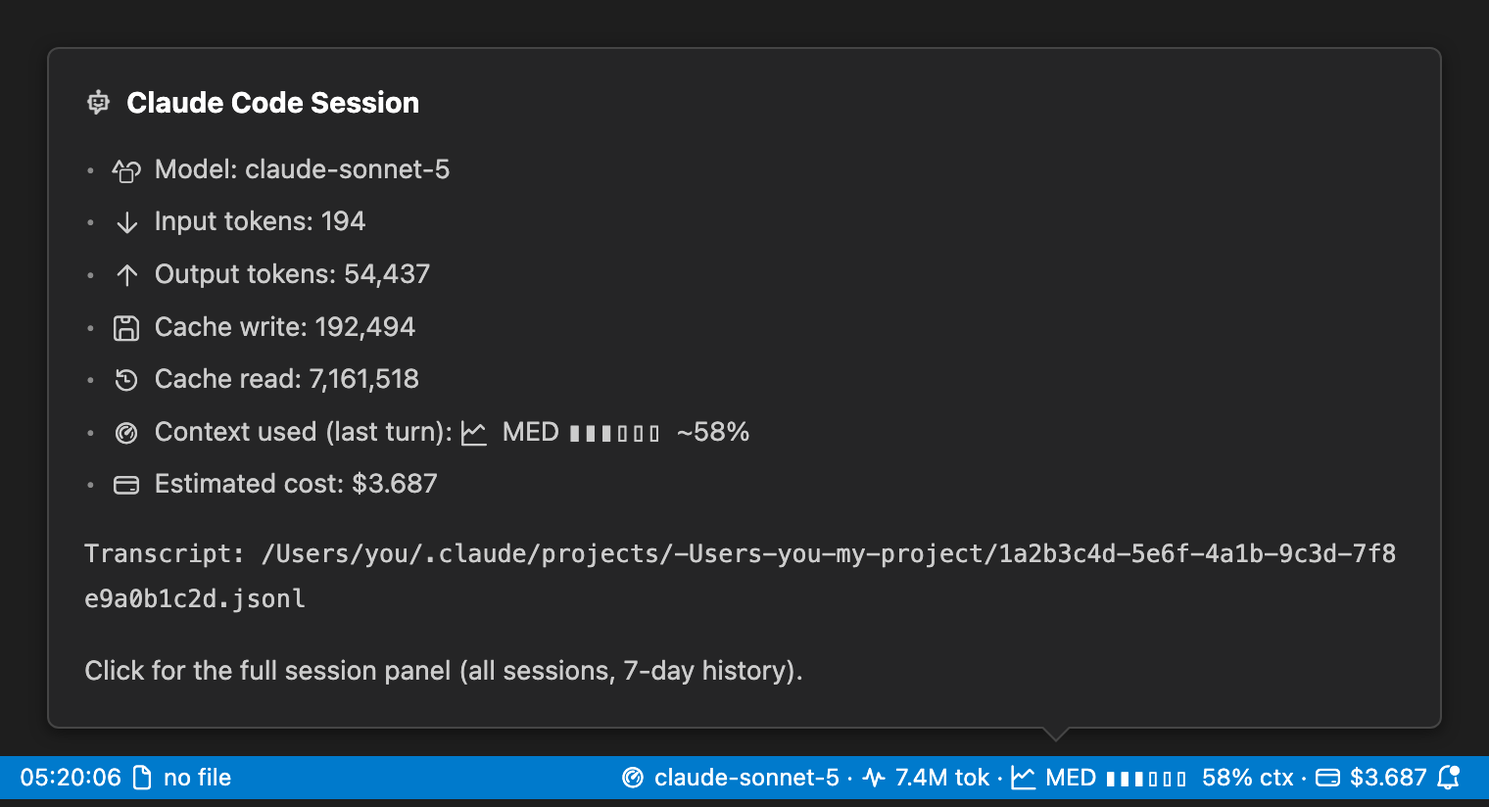
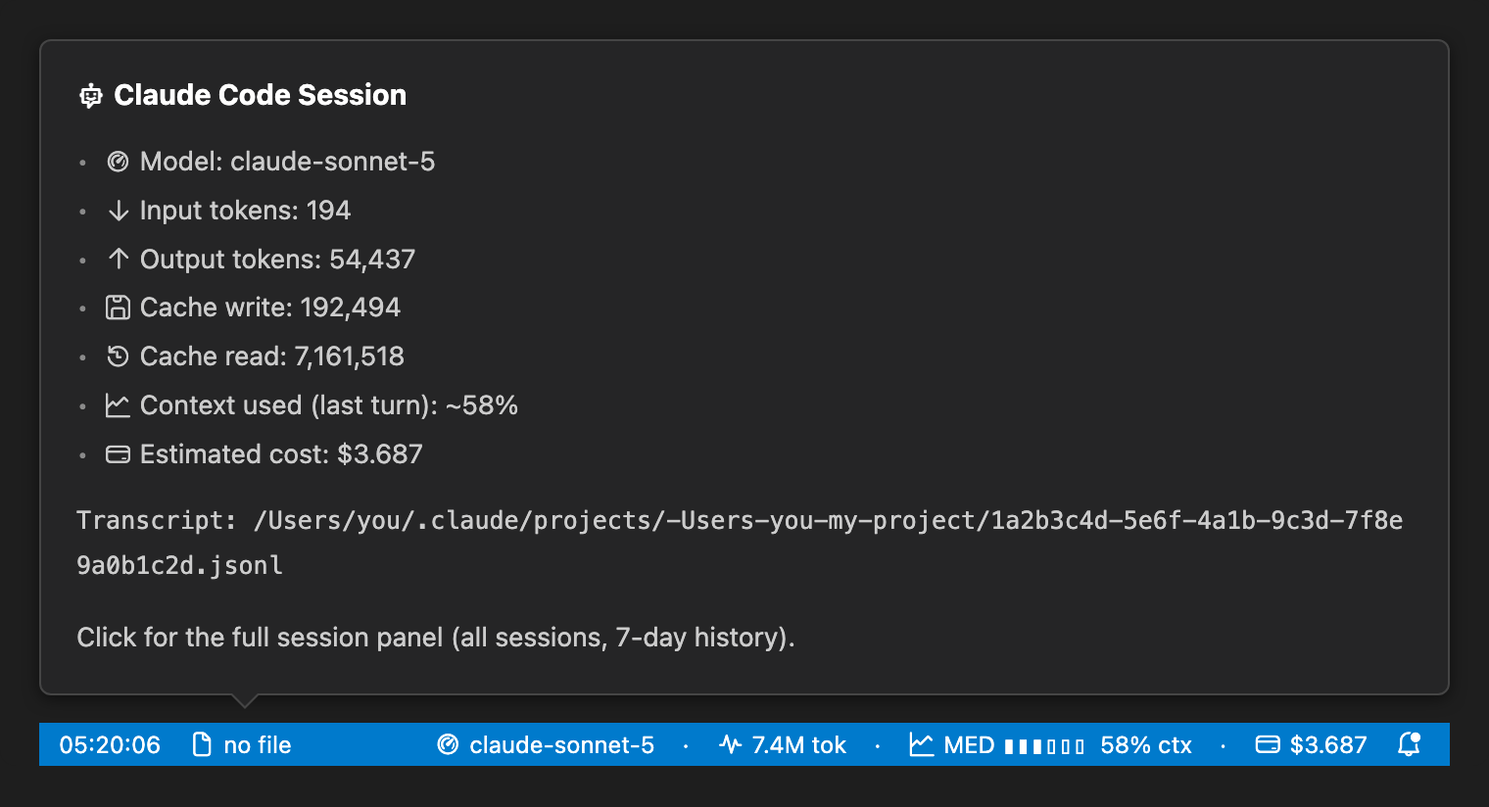
Rename to claudeSimpleStatsBar ids and simplify the tooltip's context line
- Renamed all command/setting ids from claudeStatusline.* to
  claudeSimpleStatsBar.* to match the extension's display name.
- Tooltip's "Context used" line now shows just the percentage instead
  of repeating the status bar's severity tag and fill bar (that
  escalation is status-bar-only); its Model line now uses the same
  $(dashboard) icon as the status bar instead of a mismatched one.
- Added a Session panel tab to the rule-ticks prototype and fixed a
  codicon vertical-alignment bug in the tooltip mockup.
- Regenerated the hover tooltip doc image and trimmed a duplicate
  paragraph in the README.

Changed region(s): [[0.0, 0.182, 1.0, 1.0], [0.0309, 0.0303, 0.9586, 0.0607], [0.0309, 0.091, 0.2783, 0.1517]]

diff --git a/prototypes/rule-ticks.html b/prototypes/rule-ticks.html
@@ -160,7 +160,7 @@
   }
   .card .hd { font-weight: 700; color: #fff; font-size: 14.5px; margin-bottom: 8px; }
   .card ul { list-style: none; margin: 0; padding: 0; }
-  .card li { display: flex; align-items: flex-start; }
+  .card li { display: flex; align-items: center; }
   .card li:before { content: "\2022"; margin-right: 8px; color: #8a8a8a; }
   .card .path { font-family: ui-monospace, SFMono-Regular, "SF Mono", Menlo, Consolas, monospace; font-size: 12.5px; color: #cccccc; word-break: break-all; margin: 10px 0 0; }
   .card .foot { margin: 12px 0 0; color: #cccccc; }
@@ -182,6 +182,25 @@
   .tooltip-bar .left, .tooltip-bar .right { display: flex; align-items: center; }
   .tooltip-bar .seg { display: flex; align-items: center; margin-right: 14px; }
   .tooltip-bar .right .seg { margin-right: 0; margin-left: 14px; }
+
+  .panel-stage { background: #1e1e1e; border-radius: 8px; padding: 16px 20px 20px; }
+  .panel-body { color: #cccccc; font-family: -apple-system, BlinkMacSystemFont, "Segoe UI", Roboto, Helvetica, Arial, sans-serif; }
+  .panel-body h2 { font-size: 1.1em; color: #ffffff; margin: 0 0 8px; }
+  .panel-body h2 + h2, .panel-body .compaction + h2 { margin-top: 24px; }
+  .panel-body ul { list-style: none; padding: 0; margin: 0; }
+  .panel-body li.session { display: flex; align-items: center; gap: 8px; padding: 7px 0; border-bottom: 1px solid #454545; }
+  .panel-body li.session .dot { color: #8a8a8a; }
+  .panel-body li.session.primary .dot { color: #89d185; }
+  .panel-body li.session .name { flex: 1; font-weight: 600; font-family: ui-monospace, SFMono-Regular, "SF Mono", Menlo, Consolas, monospace; font-size: 12.5px; }
+  .panel-body li.session.primary .name { color: #89d185; }
+  .panel-body li.session .model, .panel-body li.session .tokens { color: #9d9d9d; font-size: 0.9em; }
+  .panel-body li.session .cost { font-variant-numeric: tabular-nums; min-width: 58px; text-align: right; }
+  .panel-body button.switch { background: #0e639c; color: #ffffff; border: none; padding: 3px 10px; border-radius: 3px; cursor: pointer; font-size: 0.85em; }
+  .panel-body button.switch:hover { background: #1177bb; }
+  .panel-body .compaction { color: #9d9d9d; font-size: 0.9em; margin: 10px 0 0; }
+  .panel-body .chart .bar { fill: #3794ff; }
+  .panel-body .chart .bar-label, .panel-body .chart .bar-value { fill: #9d9d9d; font-size: 10px; }
+  .panel-body ul.model-breakdown li { display: flex; justify-content: space-between; padding: 3px 0; }
 </style>
 
 <div class="page">
@@ -195,6 +214,7 @@
   <div class="tabs">
     <button class="tab-btn active" data-tab="bar">Status bar</button>
     <button class="tab-btn" data-tab="tooltip">Tooltip</button>
+    <button class="tab-btn" data-tab="panel">Session panel</button>
   </div>
 
   <div class="panel active" id="panel-bar">
@@ -211,12 +231,12 @@
         <div class="beak"></div>
         <div class="hd"><span class="ic" style="font-size:15px;">&#xeb08;</span>Claude Code Session</div>
         <ul>
-          <li><span class="ic">&#xeb63;</span>Model: claude-sonnet-5</li>
+          <li><span class="ic">&#xeacd;</span>Model: claude-sonnet-5</li>
           <li><span class="ic">&#xea9a;</span>Input tokens: 194</li>
           <li><span class="ic">&#xeaa1;</span>Output tokens: 54,437</li>
           <li><span class="ic">&#xeb4b;</span>Cache write: 192,494</li>
           <li><span class="ic">&#xea82;</span>Cache read: 7,161,518</li>
-          <li><span class="ic">&#xeacd;</span>Context used (last turn):&nbsp;<span class="ic" id="icon-card">&#xeb08;</span><span id="tag-card">CALM </span><span id="fill-card">▮▮▮▯▯▯</span><span id="gap-card">&nbsp;&nbsp;</span>~<span id="pct-card">45</span>%</li>
+          <li><span class="ic">&#xebe2;</span>Context used (last turn): ~<span id="pct-card">45</span>%</li>
           <li><span class="ic">&#xeac9;</span>Estimated cost: $3.687</li>
         </ul>
         <p class="path">Transcript: /Users/you/.claude/projects/-Users-you-my-project/1a2b3c4d-5e6f-4a1b-9c3d-7f8e9a0b1c2d.jsonl</p>
@@ -241,6 +261,74 @@
     </div>
   </div>
 
+  <div class="panel" id="panel-panel">
+    <div class="panel-stage">
+      <div class="panel-body">
+        <h2>Sessions (this workspace)</h2>
+        <ul>
+          <li class="session primary">
+            <span class="dot">&#9679;</span>
+            <span class="name">1a2b3c4d-5e6f-4a1b-9c3d-7f8e9a0b1c2d</span>
+            <span class="model">claude-sonnet-5</span>
+            <span class="tokens">7.4M tok</span>
+            <span class="cost">$3.687</span>
+          </li>
+          <li class="session">
+            <span class="dot">&#9675;</span>
+            <span class="name">9f1e2d3c-4b5a-6978-8f01-2a3b4c5d6e7f</span>
+            <span class="model">claude-opus-5</span>
+            <span class="tokens">1.2M tok</span>
+            <span class="cost">$5.210</span>
+            <button class="switch">Make primary</button>
+          </li>
+          <li class="session">
+            <span class="dot">&#9675;</span>
+            <span class="name">55667788-99aa-4bbb-8ccc-ddeeff001122</span>
+            <span class="model">claude-haiku-4.5</span>
+            <span class="tokens">340k tok</span>
+            <span class="cost">$0.184</span>
+            <button class="switch">Make primary</button>
+          </li>
+          <li class="session">
+            <span class="dot">&#9675;</span>
+            <span class="name">b3c4d5e6-f7a8-49b0-8c1d-2e3f4a5b6c7d</span>
+            <span class="model">claude-opus-5</span>
+            <span class="tokens">2.8M tok</span>
+            <span class="cost">$1.932</span>
+            <button class="switch">Make primary</button>
+          </li>
+          <li class="session">
+            <span class="dot">&#9675;</span>
+            <span class="name">de305d54-75b4-431b-adb2-eb6b9e546013</span>
+            <span class="model">claude-sonnet-5</span>
+            <span class="tokens">615k tok</span>
+            <span class="cost">$0.402</span>
+            <button class="switch">Make primary</button>
+          </li>
+        </ul>
+        <p class="compaction">Compacted ~2x this session (heuristic) &middot; last around 8/14/2026, 3:42:10 PM</p>
+
+        <h2>Last 7 days</h2>
+        <svg width="336" height="140" class="chart">
+          <rect x="0" y="92" width="36" height="24" class="bar" /><text x="18" y="130" class="bar-label" text-anchor="middle">08-08</text><text x="18" y="88" class="bar-value" text-anchor="middle">$2.14</text>
+          <rect x="48" y="108" width="36" height="8" class="bar" /><text x="66" y="130" class="bar-label" text-anchor="middle">08-09</text><text x="66" y="104" class="bar-value" text-anchor="middle">$0.76</text>
+          <rect x="96" y="56" width="36" height="60" class="bar" /><text x="114" y="130" class="bar-label" text-anchor="middle">08-10</text><text x="114" y="52" class="bar-value" text-anchor="middle">$5.42</text>
+          <rect x="144" y="105" width="36" height="11" class="bar" /><text x="162" y="130" class="bar-label" text-anchor="middle">08-11</text><text x="162" y="101" class="bar-value" text-anchor="middle">$1.03</text>
+          <rect x="192" y="40" width="36" height="76" class="bar" /><text x="210" y="130" class="bar-label" text-anchor="middle">08-12</text><text x="210" y="36" class="bar-value" text-anchor="middle">$6.88</text>
+          <rect x="240" y="80" width="36" height="36" class="bar" /><text x="258" y="130" class="bar-label" text-anchor="middle">08-13</text><text x="258" y="76" class="bar-value" text-anchor="middle">$3.25</text>
+          <rect x="288" y="16" width="36" height="100" class="bar" /><text x="306" y="130" class="bar-label" text-anchor="middle">08-14</text><text x="306" y="12" class="bar-value" text-anchor="middle">$9.08</text>
+        </svg>
+
+        <h2>Spend by model (7 days)</h2>
+        <ul class="model-breakdown">
+          <li><span class="model">claude-sonnet-5</span><span class="cost">$18.200</span></li>
+          <li><span class="model">claude-opus-5</span><span class="cost">$8.940</span></li>
+          <li><span class="model">claude-haiku-4.5</span><span class="cost">$1.420</span></li>
+        </ul>
+      </div>
+    </div>
+  </div>
+
   <div class="controls">
     <label>context used <b id="pctLabel">45%</b></label>
     <input type="range" id="slider" min="0" max="100" value="45" step="1" />
@@ -251,7 +339,7 @@
     </div>
     <label class="toggle-row">
       <input type="checkbox" id="showBar" checked />
-      Show context bar <span class="toggle-hint">(new <code>claudeStatusline.showContextBar</code> setting &mdash; unchecked keeps the icon, tag, and percentage, just drops the bar)</span>
+      Show context bar <span class="toggle-hint">(new <code>claudeSimpleStatsBar.showContextBar</code> setting &mdash; unchecked keeps the icon, tag, and percentage, just drops the bar)</span>
     </label>
   </div>
 
@@ -274,7 +362,7 @@
     </div>
   </div>
 
-  <footer>&ldquo;medium&rdquo; and the <code>$(graph-line)</code> icon are placeholders for the new tier &mdash; rename or swap the icon if something else reads better. The <code>CALM</code>/<code>MED</code>/<code>WARN</code>/<code>CRIT</code> tag is new too &mdash; drop it if the icon + bar already read clearly enough on their own. Switch to the <b>Tooltip</b> tab above to see the same state in the hover card.</footer>
+  <footer>&ldquo;medium&rdquo; and the <code>$(graph-line)</code> icon are placeholders for the new tier &mdash; rename or swap the icon if something else reads better. The <code>CALM</code>/<code>MED</code>/<code>WARN</code>/<code>CRIT</code> tag is new too &mdash; drop it if the icon + bar already read clearly enough on their own. Switch to the <b>Tooltip</b> tab above to see the same state reflected in the status bar row underneath the hover card &mdash; the ctx gauge is status-bar-only, so the card itself doesn't repeat it. Or see <b>Session panel</b> for the full multi-session breakdown (no ctx gauge there either &mdash; that indicator is only per-turn, so it doesn't map cleanly onto a list of sessions).</footer>
 </div>
 
 <script>
@@ -332,30 +420,22 @@
   showBar.addEventListener('change', () => { render(); renderTooltip(); });
   render();
 
-  const iconCard = document.getElementById('icon-card');
-  const tagCard = document.getElementById('tag-card');
-  const fillCard = document.getElementById('fill-card');
-  const gapCard = document.getElementById('gap-card');
-  const pctCard = document.getElementById('pct-card');
   const iconMini = document.getElementById('icon-mini');
   const tagMini = document.getElementById('tag-mini');
   const fillMini = document.getElementById('fill-mini');
   const gapMini = document.getElementById('gap-mini');
   const pctMini = document.getElementById('pct-mini');
+  const pctCard = document.getElementById('pct-card');
 
   function renderTooltip() {
     const pct = Number(slider.value);
     const tier = tierFor(pct);
-    iconCard.textContent = ICONS[tier];
-    tagCard.textContent = TAGS[tier] + ' ';
-    fillCard.textContent = formatBar(pct);
-    applyBarVisibility(fillCard, gapCard);
-    pctCard.textContent = String(pct);
     iconMini.textContent = ICONS[tier];
     tagMini.textContent = TAGS[tier] + ' ';
     fillMini.textContent = formatBar(pct);
     applyBarVisibility(fillMini, gapMini);
     pctMini.textContent = String(pct);
+    pctCard.textContent = String(pct);
   }
 
   slider.addEventListener('input', renderTooltip);
@@ -365,6 +445,7 @@
   const panels = {
     bar: document.getElementById('panel-bar'),
     tooltip: document.getElementById('panel-tooltip'),
+    panel: document.getElementById('panel-panel'),
   };
   tabBtns.forEach((btn) => {
     btn.addEventListener('click', () => {

diff --git a/src/claudeSession/claudeStatusBar.ts b/src/claudeSession/claudeStatusBar.ts
@@ -55,7 +55,7 @@ export class ClaudeSessionStatusBar implements vscode.Disposable {
       vscode.StatusBarAlignment.Right,
       -1000
     );
-    this.item.command = "claudeStatusline.openPanel";
+    this.item.command = "claudeSimpleStatsBar.openPanel";
 
     this.panel = new ClaudeSessionPanel((file) => {
       this.sessionManager.setManualPrimary(file);
@@ -71,7 +71,7 @@ export class ClaudeSessionStatusBar implements vscode.Disposable {
   }
 
   reloadConfig(): void {
-    const cfg = vscode.workspace.getConfiguration("claudeStatusline");
+    const cfg = vscode.workspace.getConfiguration("claudeSimpleStatsBar");
     this.contextWindowTokens = cfg.get<number>("contextWindowTokens", 1_000_000);
     this.pricing = resolvePricing(cfg.get<Record<string, ModelPricing>>("pricing", {}));
     this.showContextBar = cfg.get<boolean>("showContextBar", true);
@@ -104,7 +104,7 @@ export class ClaudeSessionStatusBar implements vscode.Disposable {
   }
 
   refresh(): void {
-    const cfg = vscode.workspace.getConfiguration("claudeStatusline");
+    const cfg = vscode.workspace.getConfiguration("claudeSimpleStatsBar");
     const pinnedFile = cfg.get<string>("sessionFile", "").trim() || undefined;
     const primary = this.sessionManager.resolvePrimary(pinnedFile);
 
@@ -150,7 +150,7 @@ export class ClaudeSessionStatusBar implements vscode.Disposable {
       `$(pulse) ${formatTokenCount(totalTokens)} tok · ` +
       `${severity.icon} ${contextSegment} · ` +
       `$(credit-card) ${costLabel}`;
-    this.item.tooltip = this.buildTooltip(usage, contextPct, costLabel, severity);
+    this.item.tooltip = this.buildTooltip(usage, contextPct, costLabel);
 
     this.updateSessionsAndHistory(primary);
   }
@@ -186,23 +186,17 @@ export class ClaudeSessionStatusBar implements vscode.Disposable {
   private buildTooltip(
     usage: UsageTotals,
     contextPct: number,
-    costLabel: string,
-    severity: ContextSeverity
+    costLabel: string
   ): vscode.MarkdownString {
     const md = new vscode.MarkdownString();
     md.supportThemeIcons = true;
     md.appendMarkdown("**$(hubot) Claude Code Session**\n\n");
-    md.appendMarkdown(`- $(symbol-misc) Model: ${usage.model ?? "unknown"}\n`);
+    md.appendMarkdown(`- $(dashboard) Model: ${usage.model ?? "unknown"}\n`);
     md.appendMarkdown(`- $(arrow-down) Input tokens: ${usage.inputTokens.toLocaleString()}\n`);
     md.appendMarkdown(`- $(arrow-up) Output tokens: ${usage.outputTokens.toLocaleString()}\n`);
     md.appendMarkdown(`- $(save) Cache write: ${usage.cacheCreationTokens.toLocaleString()}\n`);
     md.appendMarkdown(`- $(history) Cache read: ${usage.cacheReadTokens.toLocaleString()}\n`);
-    const tooltipContextSegment = this.showContextBar
-      ? `${severity.tag} ${formatContextBar(contextPct)}  ~${contextPct}%`
-      : `${severity.tag}  ~${contextPct}%`;
-    md.appendMarkdown(
-      `- $(dashboard) Context used (last turn): ${severity.icon} ${tooltipContextSegment}\n`
-    );
+    md.appendMarkdown(`- $(graph-line) Context used (last turn): ~${contextPct}%\n`);
     if (usage.compactionCount > 0) {
       md.appendMarkdown(
         `- $(refresh) Compacted ~${usage.compactionCount}x this session (heuristic)\n`
@@ -212,7 +206,7 @@ export class ClaudeSessionStatusBar implements vscode.Disposable {
     md.appendMarkdown(`\nTranscript: \`${this.currentFile}\`\n`);
     if (costLabel === "n/a") {
       md.appendMarkdown(
-        "\n_Unknown model — set `claudeStatusline.pricing` to enable a cost estimate for it._"
+        "\n_Unknown model — set `claudeSimpleStatsBar.pricing` to enable a cost estimate for it._"
       );
     }
     md.appendMarkdown(`\n\nClick for the full session panel (all sessions, 7-day history).`);

diff --git a/src/extension.ts b/src/extension.ts
@@ -18,13 +18,13 @@ export function activate(context: vscode.ExtensionContext): void {
   context.subscriptions.push(claudeBar);
 
   context.subscriptions.push(
-    vscode.commands.registerCommand("claudeStatusline.refresh", () => claudeBar.refresh()),
-    vscode.commands.registerCommand("claudeStatusline.openPanel", () => claudeBar.openPanel()),
-    vscode.commands.registerCommand("claudeStatusline.switchPrimarySession", () =>
+    vscode.commands.registerCommand("claudeSimpleStatsBar.refresh", () => claudeBar.refresh()),
+    vscode.commands.registerCommand("claudeSimpleStatsBar.openPanel", () => claudeBar.openPanel()),
+    vscode.commands.registerCommand("claudeSimpleStatsBar.switchPrimarySession", () =>
       claudeBar.switchPrimarySession()
     ),
     vscode.workspace.onDidChangeConfiguration((e) => {
-      if (e.affectsConfiguration("claudeStatusline")) {
+      if (e.affectsConfiguration("claudeSimpleStatsBar")) {
         claudeBar.reloadConfig();
       }
     })

diff --git a/src/claudeSession/pricing.ts b/src/claudeSession/pricing.ts
@@ -10,7 +10,7 @@ export interface ModelPricing {
 /**
  * Default USD rates per 1,000,000 tokens for the current Claude model lineup
  * (as of 2026-08). Anthropic pricing changes over time, so this table is a
- * convenience default, not a guarantee — `claudeStatusline.pricing` entries
+ * convenience default, not a guarantee — `claudeSimpleStatsBar.pricing` entries
  * override a matching model id here, and new/renamed models can be added
  * the same way.
  */

diff --git a/src/claudeSession/sessionManager.ts b/src/claudeSession/sessionManager.ts
@@ -20,7 +20,7 @@ export class SessionManager {
     return findAllTranscripts(dirs);
   }
 
-  /** `pinnedFile` (the `claudeStatusline.sessionFile` setting) always wins when set. */
+  /** `pinnedFile` (the `claudeSimpleStatsBar.sessionFile` setting) always wins when set. */
   resolvePrimary(pinnedFile: string | undefined): string | undefined {
     if (pinnedFile) return pinnedFile;
 

diff --git a/src/claudeSession/panel.ts b/src/claudeSession/panel.ts
@@ -27,7 +27,7 @@ export class ClaudeSessionPanel implements vscode.Disposable {
     }
 
     this.panel = vscode.window.createWebviewPanel(
-      "claudeStatuslinePanel",
+      "claudeSimpleStatsBarPanel",
       "Claude Session",
       vscode.ViewColumn.Beside,
       { enableScripts: true, retainContextWhenHidden: true }

diff --git a/README.md b/README.md
@@ -7,7 +7,7 @@ Live Claude Code session stats — model, tokens, context left, cost — in the 
 ## Features
 
 - Status bar segment with current model, total tokens, context used, and estimated cost, updating live as the transcript grows.
-- Context usage shown as a `CALM`/`MED`/`WARN`/`CRIT` tag next to a matching icon (neutral below 50%, a small graph at ≥50%, a warning triangle at ≥70%, a flame at ≥90%), plus an optional 6-segment fill bar — turn the bar off with `claudeStatusline.showContextBar` and keep just the icon, tag, and percentage.
+- Context usage shown as a `CALM`/`MED`/`WARN`/`CRIT` tag next to a matching icon (neutral below 50%, a small graph at ≥50%, a warning triangle at ≥70%, a flame at ≥90%), plus an optional 6-segment fill bar — turn the bar off with `claudeSimpleStatsBar.showContextBar` and keep just the icon, tag, and percentage.
 - Hover tooltip with the full token breakdown (input / output / cache write / cache read) and the transcript path being tracked.
 - Session panel with every session in the workspace, a 7-day spend chart, per-model spend, and a compaction count.
 - Multi-session support — auto-detects every Claude Code transcript in the workspace, with a switchable primary.
@@ -24,8 +24,8 @@ Live Claude Code session stats — model, tokens, context left, cost — in the 
 
 - **Model** — the active model name, led by a dashboard icon.
 - **Total tokens** — input + output + cache for the whole session.
-- **Context used** — a severity icon (neutral, small graph, warning, or flame; see Features above) next to the `CALM`/`MED`/`WARN`/`CRIT` tag and an optional fill bar, based on the *last turn only*, not a running total. Answers "will my next message fit," not "how much have I used overall."
-- **Estimated cost** — built-in pricing for the current Sonnet/Opus/Haiku/Fable lineup; override via `claudeStatusline.pricing` (see [Cost estimates](#cost-estimates)).
+- **Context used** — the icon/tag/bar from Features above, based on the *last turn only*, not a running total. Answers "will my next message fit," not "how much have I used overall."
+- **Estimated cost** — built-in pricing for the current Sonnet/Opus/Haiku/Fable lineup; override via `claudeSimpleStatsBar.pricing` (see [Cost estimates](#cost-estimates)).
 
 Hover the segment for a per-category token breakdown and the transcript path:
 
@@ -45,12 +45,12 @@ Click the segment, or run **Claude Simple Stats Bar: Open Session Panel**:
 
 | Setting | Default | What it does |
 |---|---|---|
-| `claudeStatusline.enabled` | `true` | Show or hide the Claude segment. |
-| `claudeStatusline.pollIntervalMs` | `2000` | How often to re-check the transcript file, alongside the file watcher. |
-| `claudeStatusline.contextWindowTokens` | `1000000` | Context window size, used for context % and compaction detection. Lower this for a 200K-window model like Haiku 4.5. |
-| `claudeStatusline.showContextBar` | `true` | Show the 6-segment fill bar next to the context-usage tag. Turn off to keep just the icon, tag, and percentage. |
-| `claudeStatusline.sessionFile` | `""` | Pin one exact transcript path — overrides auto-detection and the panel's primary-session picker. |
-| `claudeStatusline.pricing` | `{}` | Per-model USD rates per 1M tokens; overrides or extends the built-in defaults. See [Cost estimates](#cost-estimates). |
+| `claudeSimpleStatsBar.enabled` | `true` | Show or hide the Claude segment. |
+| `claudeSimpleStatsBar.pollIntervalMs` | `2000` | How often to re-check the transcript file, alongside the file watcher. |
+| `claudeSimpleStatsBar.contextWindowTokens` | `1000000` | Context window size, used for context % and compaction detection. Lower this for a 200K-window model like Haiku 4.5. |
+| `claudeSimpleStatsBar.showContextBar` | `true` | Show the 6-segment fill bar next to the context-usage tag. Turn off to keep just the icon, tag, and percentage. |
+| `claudeSimpleStatsBar.sessionFile` | `""` | Pin one exact transcript path — overrides auto-detection and the panel's primary-session picker. |
+| `claudeSimpleStatsBar.pricing` | `{}` | Per-model USD rates per 1M tokens; overrides or extends the built-in defaults. See [Cost estimates](#cost-estimates). |
 
 ## Commands
 
@@ -68,11 +68,11 @@ This is reverse-engineered from observed transcript files, not a documented form
 
 ## Cost estimates
 
-Built-in USD rates ship for the current Sonnet/Opus/Haiku/Fable lineup (as of 2026-08), so cost shows without any setup. Anthropic's pricing changes over time — verify current rates before relying on this for anything beyond a rough estimate. Override a model's rate, or add one that isn't built in, via `claudeStatusline.pricing`:
+Built-in USD rates ship for the current Sonnet/Opus/Haiku/Fable lineup (as of 2026-08), so cost shows without any setup. Anthropic's pricing changes over time — verify current rates before relying on this for anything beyond a rough estimate. Override a model's rate, or add one that isn't built in, via `claudeSimpleStatsBar.pricing`:
 
 ```json
 {
-  "claudeStatusline.pricing": {
+  "claudeSimpleStatsBar.pricing": {
     "claude-sonnet-5": {
       "inputPerMillion": 3,
       "outputPerMillion": 15,
@@ -88,7 +88,7 @@ Models with neither a built-in default nor a configured entry show cost as `n/a`
 ## Known limitations
 
 - **Compaction count is a heuristic.** Transcripts carry no explicit compaction marker, so this infers one from a sharp drop in per-turn context tokens: a turn using at least 10% of the context window followed by one using less than 40%. False positives and negatives are both possible.
-- **Multi-session auto-pick can grab the wrong transcript** if several sessions are running in the same workspace at once. Use the panel's **Make primary**, the **Switch Primary Session** command, or `claudeStatusline.sessionFile` to pin the one you want.
+- **Multi-session auto-pick can grab the wrong transcript** if several sessions are running in the same workspace at once. Use the panel's **Make primary**, the **Switch Primary Session** command, or `claudeSimpleStatsBar.sessionFile` to pin the one you want.
 - **The Claude segment always sits on the far right** of the status bar, past everything VS Code or other extensions add. It uses a deliberately low priority so it doesn't compete with the built-in line/column, encoding, and language-mode indicators for space.
 
 ## Install

diff --git a/CHANGELOG.md b/CHANGELOG.md
@@ -6,13 +6,15 @@ Notable changes to this extension, by version. Format follows [Keep a Changelog]
 
 ### Added
 
-- `claudeStatusline.showContextBar` setting to hide the 6-segment fill bar while keeping the severity icon, tag, and percentage.
+- `claudeSimpleStatsBar.showContextBar` setting to hide the 6-segment fill bar while keeping the severity icon, tag, and percentage.
 
 ### Changed
 
+- Renamed all command and setting ids from `claudeStatusline.*` to `claudeSimpleStatsBar.*` to match the extension's display name, superseding the 0.3.0 decision to leave them unchanged — update any existing `settings.json`/`keybindings.json` entries.
 - Rewrote the README for the Marketplace listing and moved version history into this changelog.
 - Updated the extension icon.
 - Context-usage indicator now shows a 6-segment fill bar and a `CALM`/`MED`/`WARN`/`CRIT` severity tag, replacing the icon-only escalation (calm <50%, medium 50–69%, warning 70–89%, critical ≥90%). The severity icon sits next to the tag; the segment's leading icon is now always `$(dashboard)`.
+- Hover tooltip's "Context used" line now shows just the percentage (e.g. `~58%`) instead of repeating the status bar's severity tag and fill bar — that escalation is status-bar-only. Its Model line also now uses the same `$(dashboard)` icon as the status bar, replacing a mismatched one.
 
 ## [0.3.0] - 2026-08-14
 
